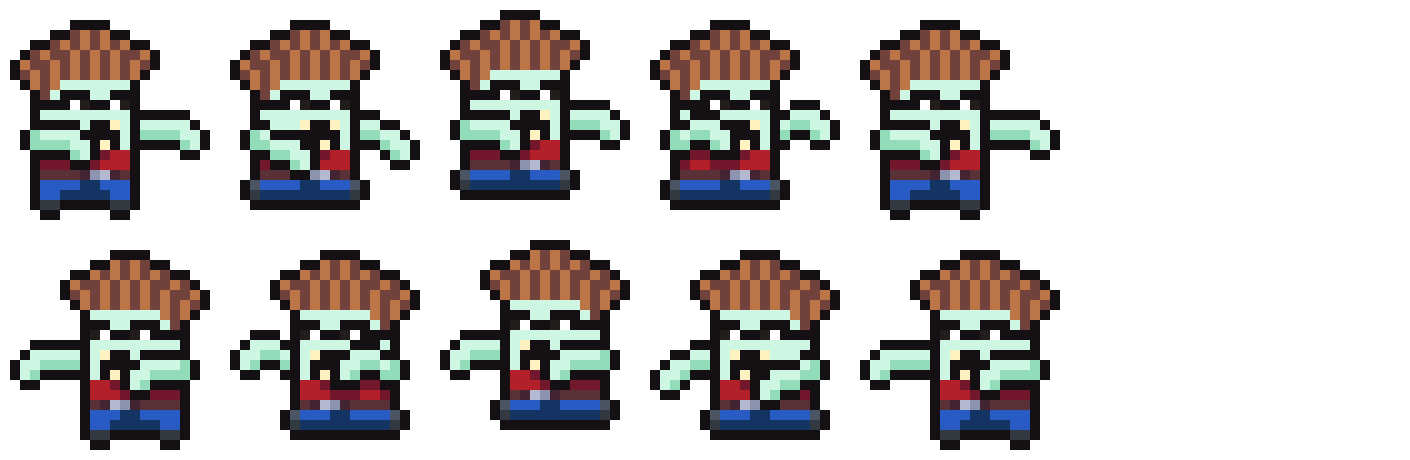
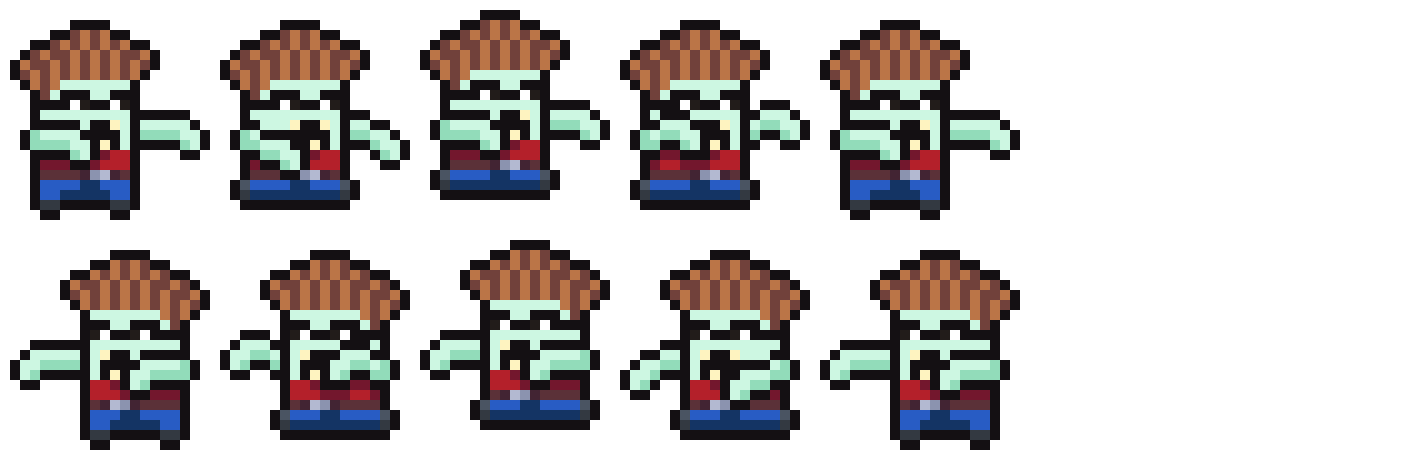
disparar_terminado

Changed region(s): [[0.156, 0.0, 0.7489, 0.487], [0.156, 0.5174, 0.7489, 0.9739]]

diff --git a/Enfermero.cpp b/Enfermero.cpp
@@ -27,8 +27,8 @@ void Enfermero::setDireccion(Direcciones _direccion) {
 }
 int Enfermero::getX() { return posX; }
 int Enfermero::getY() { return posY; }
-int Enfermero::getAncho() { return ancho/2; }
-int Enfermero::getAlto() { return alto/2; }
+int Enfermero::getAncho() { return ancho/3; }
+int Enfermero::getAlto() { return alto/3; }
 void Enfermero::addVelocidad(int vel) { velocidad += vel; }
 void Enfermero::resetVelocidad() { velocidad = velocidadNormal; }
 

diff --git a/Level1.h b/Level1.h
@@ -150,9 +150,8 @@ namespace TrabajoFinal {
 		if (e->KeyCode == Keys::ControlKey) enfermero->addVelocidad(5);
 		switch (e->KeyCode) {
 		case Keys::Space:
-
+			enfermero->setDireccion(Disparar);
 			lista_balas->addBala(new Bala(40, 10, enfermero, 30));
-
 			break;
 		case Keys::Left:
 			enfermero->setDireccion(Izquierda);
